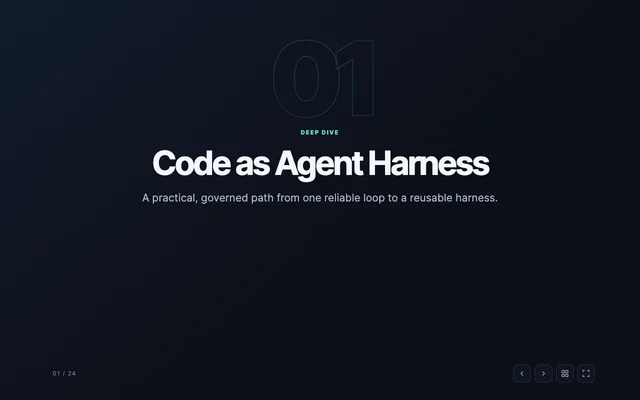
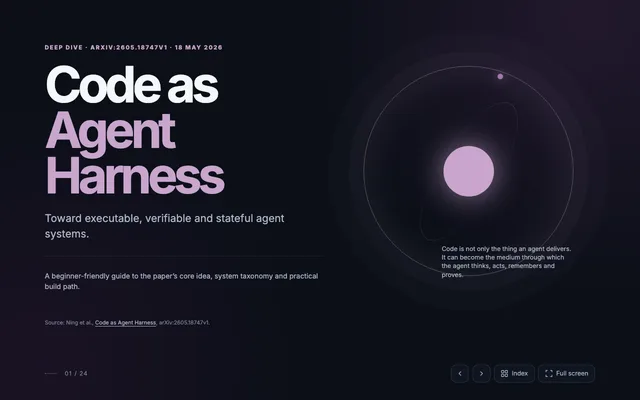
Update Code as Agent Harness deck to the 28 September version

diff --git a/public/library/decks/code-as-agent-harness.html b/public/library/decks/code-as-agent-harness.html
@@ -5,6 +5,9 @@
   <meta name="viewport" content="width=device-width, initial-scale=1" />
   <meta name="theme-color" content="#0b0f17" />
   <title>Code as Agent Harness — Deep Dive</title>
+  <link rel="preconnect" href="https://fonts.googleapis.com">
+  <link rel="preconnect" href="https://fonts.gstatic.com" crossorigin>
+  <link href="https://fonts.googleapis.com/css2?family=Inter:wght@400;500;600;700;800;900&display=swap" rel="stylesheet">
   <style>
     :root {
       --ink: #f4f7fb;
@@ -14,12 +17,12 @@
       --panel: #111827;
       --panel-2: #151e2d;
       --line: rgba(255,255,255,.12);
-      --cyan: #68e5d1;
-      --cyan-2: #b7fff2;
-      --amber: #ffc86b;
-      --violet: #aa9bff;
-      --rose: #ff8e9e;
-      --green: #8ee7a6;
+      --cyan: #c8a5cc;
+      --cyan-2: #c8a5cc;
+      --amber: #a279a7;
+      --violet: #a279a7;
+      --rose: #f4f7fb;
+      --green: #c8a5cc;
       --shadow: 0 30px 80px rgba(0,0,0,.32);
     }
     * { box-sizing: border-box; }
@@ -31,9 +34,10 @@
     .deck { position: relative; min-height: 100vh; overflow: hidden; }
     .slide {
       position: absolute; inset: 0; min-height: 100vh; padding: 6.8vh 7vw 10vh;
-      display: none; overflow: auto; background:
-        radial-gradient(circle at 92% 4%, rgba(104,229,209,.12), transparent 30%),
-        radial-gradient(circle at 6% 90%, rgba(170,155,255,.09), transparent 28%), var(--bg);
+      display: none; overflow: auto; overflow-x: hidden; scrollbar-gutter: stable;
+      background:
+        radial-gradient(circle at 92% 4%, rgba(90,45,95,.3), transparent 40%),
+        radial-gradient(circle at 6% 90%, rgba(56,24,60,.35), transparent 38%), var(--bg);
     }
     .slide.active { display: block; animation: in .42s ease both; }
     @keyframes in { from { opacity: 0; transform: translateY(10px); } to { opacity: 1; transform: none; } }
@@ -66,16 +70,17 @@
     .metric { font-size: 2.6rem; line-height: 1; letter-spacing: -.06em; color: var(--cyan); margin-bottom: .35rem; }
     .hero { display: grid; grid-template-columns: 1.08fr .92fr; gap: 4vw; align-items: center; min-height: 72vh; }
     .hero-mark { min-height: 480px; position: relative; display: grid; place-items: center; }
-    .orb { width: min(34vw, 420px); aspect-ratio: 1; border: 1px solid rgba(104,229,209,.5); border-radius: 50%; position: relative; box-shadow: 0 0 0 30px rgba(104,229,209,.035), 0 0 0 70px rgba(104,229,209,.025), inset 0 0 80px rgba(104,229,209,.12); }
-    .orb:before, .orb:after { content:""; position:absolute; inset: 12%; border: 1px dashed rgba(170,155,255,.5); border-radius: 50%; transform: rotate(32deg) scaleX(.36); }
-    .orb:after { transform: rotate(-32deg) scaleX(.36); border-color: rgba(255,200,107,.5); }
-    .orb-core { position:absolute; inset: 38%; border-radius: 50%; background: var(--cyan); box-shadow: 0 0 60px rgba(104,229,209,.7); }
+    .orb { width: min(34vw, 420px); aspect-ratio: 1; border: 1px solid rgba(200,165,204,.5); border-radius: 50%; position: relative; box-shadow: 0 0 0 30px rgba(200,165,204,.035), 0 0 0 70px rgba(200,165,204,.025), inset 0 0 80px rgba(200,165,204,.12); }
+    .orb:before, .orb:after { content:""; position:absolute; inset: 12%; border: 1px dashed rgba(162,121,167,.55); border-radius: 50%; transform: rotate(32deg) scaleX(.36); }
+    .orb:after { transform: rotate(-32deg) scaleX(.36); border-color: rgba(90,45,95,.6); }
+    .orb-core { position:absolute; inset: 38%; border-radius: 50%; background: var(--cyan); box-shadow: 0 0 60px rgba(200,165,204,.7); }
     .orbit { position:absolute; inset: 0; animation: spin 12s linear infinite; }
     .orbit i { position:absolute; width: 11px; height: 11px; border-radius: 50%; background: var(--amber); top: 1%; left: 50%; box-shadow: 0 0 20px var(--amber); }
     @keyframes spin { to { transform: rotate(360deg); } }
     .hero-note { position: absolute; bottom: 1.5rem; right: 2rem; max-width: 260px; color: var(--muted); font-size: .78rem; line-height: 1.4; }
-    .section-break { display: grid; place-items: center; text-align: center; background: linear-gradient(140deg, #121b2b, #0b0f17 58%); }
-    .section-break .section-number { font-size: clamp(5rem, 16vw, 13rem); line-height: .8; font-weight: 900; letter-spacing: -.12em; color: transparent; -webkit-text-stroke: 1px rgba(104,229,209,.35); margin-bottom: 1.2rem; }
+    .section-break { place-items: center; text-align: center; background: linear-gradient(140deg, #1f1522, #0b0f17 58%); }
+    .slide.section-break.active { display: grid; }
+    .section-break .section-number { font-size: clamp(5rem, 16vw, 13rem); line-height: .8; font-weight: 900; letter-spacing: -.12em; color: transparent; -webkit-text-stroke: 1px rgba(200,165,204,.4); margin-bottom: 1.2rem; }
     .section-break h2 { margin-left: auto; margin-right: auto; }
     .section-break .lead { margin-left: auto; margin-right: auto; }
     .timeline { display: grid; grid-template-columns: repeat(3,1fr); gap: 0; margin: 2rem 0; }
@@ -90,7 +95,7 @@
     .diagram svg { width: 100%; height: auto; display: block; }
     .tabbar { display:flex; gap:.5rem; flex-wrap:wrap; margin: 1.2rem 0; }
     .tab { background: transparent; border: 1px solid var(--line); border-radius:999px; padding:.55rem .85rem; cursor:pointer; color:var(--muted); }
-    .tab.active, .tab:hover { border-color: var(--cyan); color: var(--cyan); background: rgba(104,229,209,.08); }
+    .tab.active, .tab:hover { border-color: var(--cyan); color: var(--cyan); background: rgba(200,165,204,.12); }
     .tabpanel { display:none; }
     .tabpanel.active { display:block; animation: in .25s ease both; }
     .steps { counter-reset: step; display:grid; gap:.75rem; }
@@ -104,7 +109,7 @@
     .matrix { display:grid; grid-template-columns: 1.15fr repeat(3,1fr); border:1px solid var(--line); border-radius:18px; overflow:hidden; }
     .matrix > div { padding:.82rem; border-right:1px solid var(--line); border-bottom:1px solid var(--line); font-size:.82rem; color:var(--muted); }
     .matrix > div:nth-child(4n) { border-right:0; }
-    .matrix .head { background:rgba(104,229,209,.1); color:var(--ink); font-weight:800; }
+    .matrix .head { background:rgba(200,165,204,.14); color:var(--ink); font-weight:800; }
     .matrix .rowhead { color:var(--ink); font-weight:700; }
     .checklist { display:grid; gap:.6rem; }
     .check { display:flex; align-items:flex-start; gap:.7rem; color:var(--muted); }
@@ -112,14 +117,16 @@
     .risk { display:flex; gap: 1rem; align-items:flex-start; padding: .9rem 0; border-bottom:1px solid var(--line); }
     .risk:last-child { border-bottom:0; }
     .risk-icon { width:2rem; height:2rem; flex:none; display:grid; place-items:center; border:1px solid currentColor; border-radius:10px; }
-    .footerline { position: fixed; left: 7vw; right: 7vw; bottom: 2.2rem; display:flex; justify-content:space-between; align-items:center; pointer-events:none; z-index:20; }
-    .progress { height: 2px; background: rgba(255,255,255,.12); flex:1; max-width: 260px; }
-    .progress span { display:block; height:100%; background:var(--cyan); transition:width .3s ease; }
-    .slide-count { color: var(--muted-2); font-size:.72rem; letter-spacing:.12em; }
-    .controls { display:flex; align-items:center; gap:.42rem; pointer-events:auto; }
+    .footerline { position: fixed; left: 7vw; right: 7vw; bottom: 2.2rem; display:flex; justify-content:space-between; align-items:center; gap:.75rem; pointer-events:none; z-index:20; }
+    .footerline-meta { display:flex; align-items:center; gap:1rem; min-width:0; overflow:hidden; }
+    .progress { height: 2px; background: rgba(255,255,255,.12); flex:1; max-width: 260px; min-width:24px; }
+    .progress span { display:block; height:100%; background:linear-gradient(90deg,var(--cyan),#5a2d5f); transition:width .3s ease; }
+    .slide-count { color: var(--muted-2); font-size:.72rem; letter-spacing:.12em; white-space:nowrap; }
+    .controls { display:flex; align-items:center; gap:.42rem; pointer-events:auto; flex:none; position:relative; z-index:21; }
     .icon-btn { width: 2.25rem; height:2.25rem; display:grid; place-items:center; border-radius: 11px; border:1px solid var(--line); background: rgba(15,22,35,.86); cursor:pointer; color:var(--muted); }
     .icon-btn:hover { border-color:var(--cyan); color:var(--cyan); }
-    .icon-btn svg { width:1rem; height:1rem; }
+    .icon-btn svg { width:1rem; height:1rem; flex:none; }
+    .icon-btn.labeled { width:auto; display:inline-flex; align-items:center; gap:.4rem; padding:0 .8rem; font-size:.78rem; white-space:nowrap; }
     .overview { position: fixed; inset: 0; z-index:50; display:none; background: rgba(6,9,14,.94); backdrop-filter: blur(14px); padding: 7vh 7vw; overflow:auto; }
     .overview.open { display:block; animation: in .22s ease both; }
     .overview-head { display:flex; align-items:baseline; justify-content:space-between; gap:1rem; margin-bottom:2rem; }
@@ -151,6 +158,9 @@
       h1 { font-size: clamp(3.1rem, 15vw, 6rem); }
       h2 { font-size: clamp(2.5rem, 12vw, 5rem); }
       .footerline { left:1.15rem; right:1.15rem; bottom:1.2rem; }
+      .footerline-meta { display:none; }
+      .icon-btn.labeled { width:2.25rem; padding:0; }
+      .icon-btn.labeled span { display:none; }
       .progress { max-width:100px; }
       .source { position:relative; bottom:auto; margin-top:2rem; }
     }
@@ -231,13 +241,13 @@
         <h2>Code sits in the loop between <span class="accent">intent</span> and <span class="accent">evidence</span>.</h2>
         <div class="diagram" style="margin-top:2rem">
           <svg viewBox="0 0 1100 350" role="img" aria-label="Agent produces code, harness executes it, environment returns feedback, and the loop repeats">
-            <defs><marker id="arrow" markerWidth="8" markerHeight="8" refX="6" refY="3" orient="auto"><path d="M0,0 L0,6 L7,3 z" fill="#68e5d1"/></marker></defs>
-            <rect x="35" y="120" width="170" height="90" rx="18" fill="#151e2d" stroke="#68e5d1"/><text x="120" y="158" fill="#f4f7fb" text-anchor="middle" font-size="18" font-weight="700">Agent</text><text x="120" y="184" fill="#aab5c7" text-anchor="middle" font-size="13">intent · judgement</text>
-            <rect x="275" y="80" width="230" height="170" rx="22" fill="#151e2d" stroke="#aa9bff"/><text x="390" y="120" fill="#f4f7fb" text-anchor="middle" font-size="18" font-weight="700">Harness</text><text x="390" y="150" fill="#aa9bff" text-anchor="middle" font-size="13">plan · tools · memory</text><text x="390" y="176" fill="#aa9bff" text-anchor="middle" font-size="13">permissions · validators</text><text x="390" y="202" fill="#aa9bff" text-anchor="middle" font-size="13">traces · state</text>
-            <rect x="575" y="120" width="210" height="90" rx="18" fill="#151e2d" stroke="#ffc86b"/><text x="680" y="158" fill="#f4f7fb" text-anchor="middle" font-size="18" font-weight="700">Code / tools</text><text x="680" y="184" fill="#aab5c7" text-anchor="middle" font-size="13">execute · change · inspect</text>
-            <rect x="855" y="120" width="210" height="90" rx="18" fill="#151e2d" stroke="#8ee7a6"/><text x="960" y="158" fill="#f4f7fb" text-anchor="middle" font-size="18" font-weight="700">Environment</text><text x="960" y="184" fill="#aab5c7" text-anchor="middle" font-size="13">tests · logs · outcomes</text>
-            <path d="M205 165 H268" stroke="#68e5d1" stroke-width="2" marker-end="url(#arrow)"/><path d="M505 165 H568" stroke="#68e5d1" stroke-width="2" marker-end="url(#arrow)"/><path d="M785 165 H848" stroke="#68e5d1" stroke-width="2" marker-end="url(#arrow)"/>
-            <path d="M960 220 C960 305 120 305 120 220" fill="none" stroke="#68e5d1" stroke-width="2" stroke-dasharray="7 7" marker-end="url(#arrow)"/><text x="540" y="326" fill="#68e5d1" text-anchor="middle" font-size="14" font-weight="700">feedback becomes the next decision</text>
+            <defs><marker id="arrow" markerWidth="8" markerHeight="8" refX="6" refY="3" orient="auto"><path d="M0,0 L0,6 L7,3 z" fill="#c8a5cc"/></marker></defs>
+            <rect x="35" y="120" width="170" height="90" rx="18" fill="#151e2d" stroke="#c8a5cc"/><text x="120" y="158" fill="#f4f7fb" text-anchor="middle" font-size="18" font-weight="700">Agent</text><text x="120" y="184" fill="#aab5c7" text-anchor="middle" font-size="13">intent · judgement</text>
+            <rect x="275" y="80" width="230" height="170" rx="22" fill="#151e2d" stroke="#a279a7"/><text x="390" y="120" fill="#f4f7fb" text-anchor="middle" font-size="18" font-weight="700">Harness</text><text x="390" y="150" fill="#c8a5cc" text-anchor="middle" font-size="13">plan · tools · memory</text><text x="390" y="176" fill="#c8a5cc" text-anchor="middle" font-size="13">permissions · validators</text><text x="390" y="202" fill="#c8a5cc" text-anchor="middle" font-size="13">traces · state</text>
+            <rect x="575" y="120" width="210" height="90" rx="18" fill="#151e2d" stroke="#a279a7"/><text x="680" y="158" fill="#f4f7fb" text-anchor="middle" font-size="18" font-weight="700">Code / tools</text><text x="680" y="184" fill="#aab5c7" text-anchor="middle" font-size="13">execute · change · inspect</text>
+            <rect x="855" y="120" width="210" height="90" rx="18" fill="#151e2d" stroke="#c8a5cc"/><text x="960" y="158" fill="#f4f7fb" text-anchor="middle" font-size="18" font-weight="700">Environment</text><text x="960" y="184" fill="#aab5c7" text-anchor="middle" font-size="13">tests · logs · outcomes</text>
+            <path d="M205 165 H268" stroke="#c8a5cc" stroke-width="2" marker-end="url(#arrow)"/><path d="M505 165 H568" stroke="#c8a5cc" stroke-width="2" marker-end="url(#arrow)"/><path d="M785 165 H848" stroke="#c8a5cc" stroke-width="2" marker-end="url(#arrow)"/>
+            <path d="M960 220 C960 305 120 305 120 220" fill="none" stroke="#c8a5cc" stroke-width="2" stroke-dasharray="7 7" marker-end="url(#arrow)"/><text x="540" y="326" fill="#c8a5cc" text-anchor="middle" font-size="14" font-weight="700">feedback becomes the next decision</text>
           </svg>
         </div>
         <div class="grid grid-3" style="margin-top:1rem"><div class="pill">reasoning → executable</div><div class="pill">action → bounded</div><div class="pill">state → inspectable</div></div>
@@ -332,14 +342,14 @@
         <h2>Once you can observe the harness, you can <span class="green">improve the harness</span>.</h2>
         <div class="diagram" style="margin-top:2rem">
           <svg viewBox="0 0 1000 270" role="img" aria-label="Telemetry feeds diagnosis, candidate revision, replay evaluation and governed promotion">
-            <defs><marker id="arrow2" markerWidth="8" markerHeight="8" refX="6" refY="3" orient="auto"><path d="M0,0 L0,6 L7,3 z" fill="#8ee7a6"/></marker></defs>
+            <defs><marker id="arrow2" markerWidth="8" markerHeight="8" refX="6" refY="3" orient="auto"><path d="M0,0 L0,6 L7,3 z" fill="#c8a5cc"/></marker></defs>
             <g font-family="system-ui">
-              <rect x="30" y="70" width="175" height="105" rx="18" fill="#151e2d" stroke="#8ee7a6"/><text x="117" y="106" fill="#f4f7fb" text-anchor="middle" font-size="17" font-weight="700">Deep telemetry</text><text x="117" y="133" fill="#aab5c7" text-anchor="middle" font-size="12">traces · costs · tools</text><text x="117" y="153" fill="#aab5c7" text-anchor="middle" font-size="12">tests · permissions</text>
-              <rect x="270" y="70" width="175" height="105" rx="18" fill="#151e2d" stroke="#aa9bff"/><text x="357" y="106" fill="#f4f7fb" text-anchor="middle" font-size="17" font-weight="700">Diagnose</text><text x="357" y="133" fill="#aab5c7" text-anchor="middle" font-size="12">find recurring waste</text><text x="357" y="153" fill="#aab5c7" text-anchor="middle" font-size="12">attribute failure</text>
-              <rect x="510" y="70" width="175" height="105" rx="18" fill="#151e2d" stroke="#ffc86b"/><text x="597" y="106" fill="#f4f7fb" text-anchor="middle" font-size="17" font-weight="700">Revise</text><text x="597" y="133" fill="#aab5c7" text-anchor="middle" font-size="12">tools · prompts · gates</text><text x="597" y="153" fill="#aab5c7" text-anchor="middle" font-size="12">memory · topology</text>
-              <rect x="750" y="70" width="205" height="105" rx="18" fill="#151e2d" stroke="#68e5d1"/><text x="852" y="106" fill="#f4f7fb" text-anchor="middle" font-size="17" font-weight="700">Replay + promote</text><text x="852" y="133" fill="#aab5c7" text-anchor="middle" font-size="12">held-out tasks · regressions</text><text x="852" y="153" fill="#aab5c7" text-anchor="middle" font-size="12">human approval when needed</text>
-              <path d="M207 122 H262 M447 122 H502 M687 122 H742" stroke="#8ee7a6" stroke-width="2" marker-end="url(#arrow2)"/>
-              <path d="M852 181 C852 240 117 240 117 181" fill="none" stroke="#8ee7a6" stroke-width="2" stroke-dasharray="7 7" marker-end="url(#arrow2)"/>
+              <rect x="30" y="70" width="175" height="105" rx="18" fill="#151e2d" stroke="#c8a5cc"/><text x="117" y="106" fill="#f4f7fb" text-anchor="middle" font-size="17" font-weight="700">Deep telemetry</text><text x="117" y="133" fill="#aab5c7" text-anchor="middle" font-size="12">traces · costs · tools</text><text x="117" y="153" fill="#aab5c7" text-anchor="middle" font-size="12">tests · permissions</text>
+              <rect x="270" y="70" width="175" height="105" rx="18" fill="#151e2d" stroke="#a279a7"/><text x="357" y="106" fill="#f4f7fb" text-anchor="middle" font-size="17" font-weight="700">Diagnose</text><text x="357" y="133" fill="#aab5c7" text-anchor="middle" font-size="12">find recurring waste</text><text x="357" y="153" fill="#aab5c7" text-anchor="middle" font-size="12">attribute failure</text>
+              <rect x="510" y="70" width="175" height="105" rx="18" fill="#151e2d" stroke="#a279a7"/><text x="597" y="106" fill="#f4f7fb" text-anchor="middle" font-size="17" font-weight="700">Revise</text><text x="597" y="133" fill="#aab5c7" text-anchor="middle" font-size="12">tools · prompts · gates</text><text x="597" y="153" fill="#aab5c7" text-anchor="middle" font-size="12">memory · topology</text>
+              <rect x="750" y="70" width="205" height="105" rx="18" fill="#151e2d" stroke="#c8a5cc"/><text x="852" y="106" fill="#f4f7fb" text-anchor="middle" font-size="17" font-weight="700">Replay + promote</text><text x="852" y="133" fill="#aab5c7" text-anchor="middle" font-size="12">held-out tasks · regressions</text><text x="852" y="153" fill="#aab5c7" text-anchor="middle" font-size="12">human approval when needed</text>
+              <path d="M207 122 H262 M447 122 H502 M687 122 H742" stroke="#c8a5cc" stroke-width="2" marker-end="url(#arrow2)"/>
+              <path d="M852 181 C852 240 117 240 117 181" fill="none" stroke="#c8a5cc" stroke-width="2" stroke-dasharray="7 7" marker-end="url(#arrow2)"/>
             </g>
           </svg>
         </div>
@@ -393,7 +403,7 @@
     </section>
 
     <section class="slide section-break" data-title="Section break: implementation">
-      <div class="slide-inner"><div class="section-number">01</div><div class="kicker">Deep Dive</div><h2>Code as Agent Harness</h2><p class="lead">A practical, governed path from one reliable loop to a reusable harness.</p></div>
+      <div class="slide-inner"><div class="section-number">04</div><div class="kicker">Section four</div><h2>Build it</h2><p class="lead">A practical, governed path from one reliable loop to a reusable harness.</p></div>
     </section>
 
     <section class="slide" data-title="Implementation guide">
@@ -531,12 +541,12 @@ else:
   </main>
 
   <div class="footerline" aria-label="Deck controls">
-    <div style="display:flex;align-items:center;gap:1rem"><div class="progress"><span id="progressBar"></span></div><div class="slide-count" id="slideCount">01 / 24</div></div>
+    <div class="footerline-meta"><div class="progress"><span id="progressBar"></span></div><div class="slide-count" id="slideCount">01 / 24</div></div>
     <div class="controls">
       <button class="icon-btn" id="prevBtn" title="Previous slide" aria-label="Previous slide"><svg viewBox="0 0 24 24" fill="none" stroke="currentColor" stroke-width="2"><path d="m15 18-6-6 6-6"/></svg></button>
       <button class="icon-btn" id="nextBtn" title="Next slide" aria-label="Next slide"><svg viewBox="0 0 24 24" fill="none" stroke="currentColor" stroke-width="2"><path d="m9 18 6-6-6-6"/></svg></button>
-      <button class="icon-btn" id="overviewBtn" title="Slide overview" aria-label="Slide overview"><svg viewBox="0 0 24 24" fill="none" stroke="currentColor" stroke-width="2"><rect x="3" y="3" width="7" height="7" rx="1"/><rect x="14" y="3" width="7" height="7" rx="1"/><rect x="3" y="14" width="7" height="7" rx="1"/><rect x="14" y="14" width="7" height="7" rx="1"/></svg></button>
-      <button class="icon-btn" id="fullBtn" title="Full screen" aria-label="Full screen"><svg viewBox="0 0 24 24" fill="none" stroke="currentColor" stroke-width="2"><path d="M8 3H3v5M16 3h5v5M8 21H3v-5M21 16v5h-5"/></svg></button>
+      <button class="icon-btn labeled" id="overviewBtn" title="Slide overview" aria-label="Slide overview"><svg viewBox="0 0 24 24" fill="none" stroke="currentColor" stroke-width="2"><rect x="3" y="3" width="7" height="7" rx="1"/><rect x="14" y="3" width="7" height="7" rx="1"/><rect x="3" y="14" width="7" height="7" rx="1"/><rect x="14" y="14" width="7" height="7" rx="1"/></svg><span>Index</span></button>
+      <button class="icon-btn labeled" id="fullBtn" title="Full screen" aria-label="Full screen"><svg viewBox="0 0 24 24" fill="none" stroke="currentColor" stroke-width="2"><path d="M8 3H3v5M16 3h5v5M8 21H3v-5M21 16v5h-5"/></svg><span>Full screen</span></button>
     </div>
   </div>
 
@@ -569,8 +579,8 @@ else:
         document.querySelectorAll('.thumb').forEach((b, i) => b.classList.toggle('current', i === index));
         count.textContent = `${String(index+1).padStart(2,'0')} / ${String(slides.length).padStart(2,'0')}`;
         bar.style.width = `${((index+1)/slides.length)*100}%`;
-        history.replaceState(null, '', `#${index+1}`);
-        window.scrollTo({top:0, behavior:'instant'});
+        try { history.replaceState(null, '', `#${index+1}`); } catch (err) { /* file:// and sandboxed-iframe origins throw here; navigation should still proceed */ }
+        try { window.scrollTo({top:0, behavior:'instant'}); } catch (err) {}
       }
       function next() { go(index + 1); }
       function prev() { go(index - 1); }
@@ -608,8 +618,11 @@ else:
         }));
       });
 
-      const hash = Number(location.hash.slice(1));
-      go(Number.isFinite(hash) && hash > 0 && hash <= slides.length ? hash - 1 : 0);
+      // Always open on the cover. (Previously this read location.hash and resumed on
+      // whatever slide the address bar's #fragment pointed to, so reopening or
+      // reloading the file after navigating away from the cover would land you back
+      // on that same slide instead of slide one.)
+      go(0);
     })();
   </script>
 </body>

diff --git a/src/content/library/code-as-agent-harness.md b/src/content/library/code-as-agent-harness.md
@@ -2,9 +2,9 @@
 title: "Code as Agent Harness"
 slug: code-as-agent-harness
 category: agents
-date: 2026-09-23
+date: 2026-09-28
 file: /library/decks/code-as-agent-harness.html
 thumb: /library/thumbs/code-as-agent-harness.webp
 slideCount: 24
-sizeKb: 57
+sizeKb: 58
 ---
